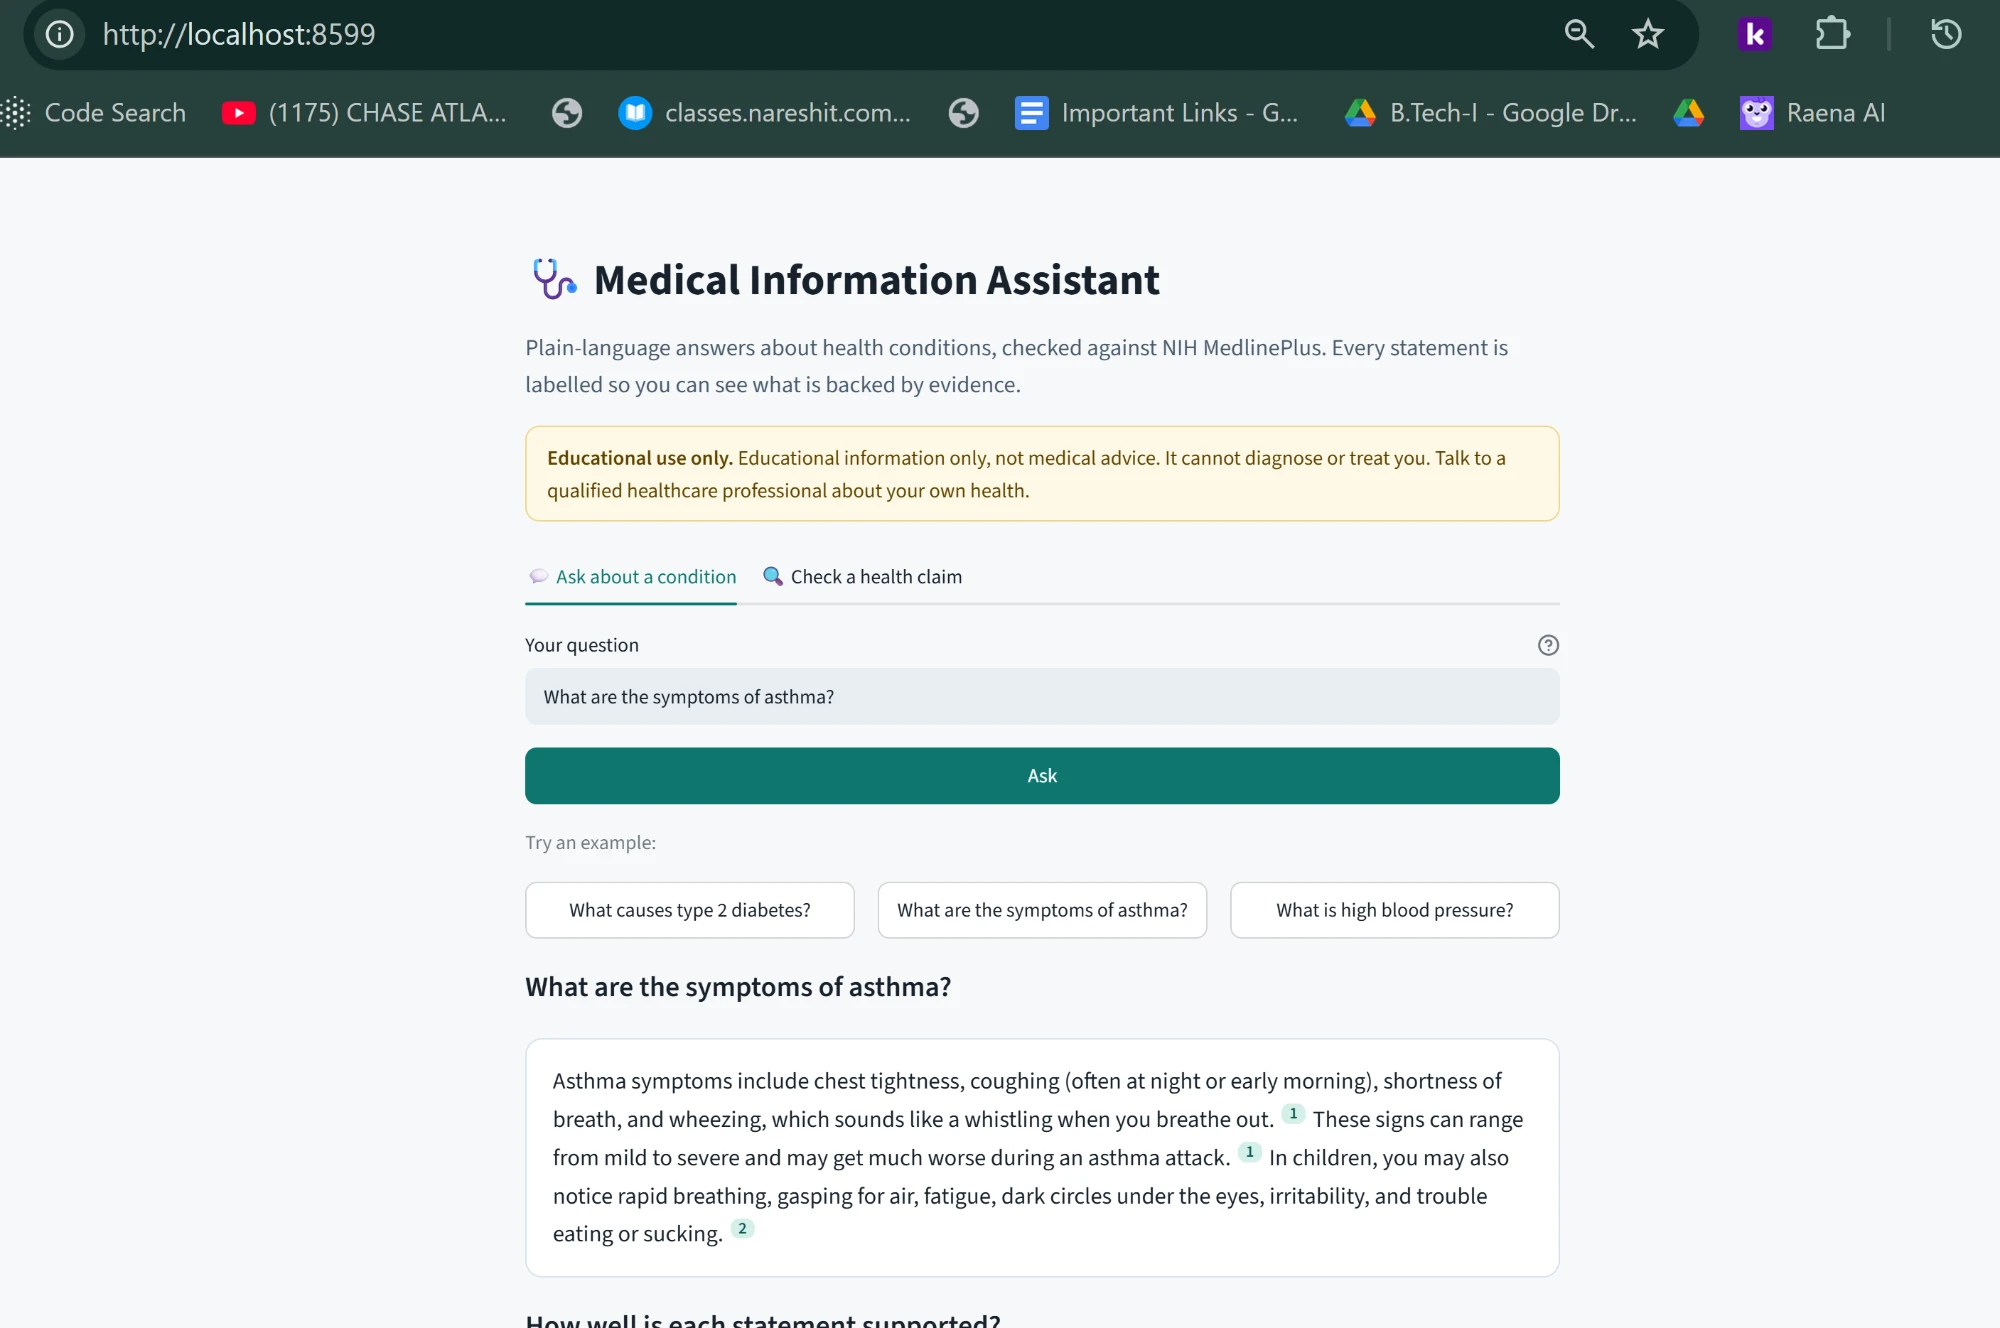
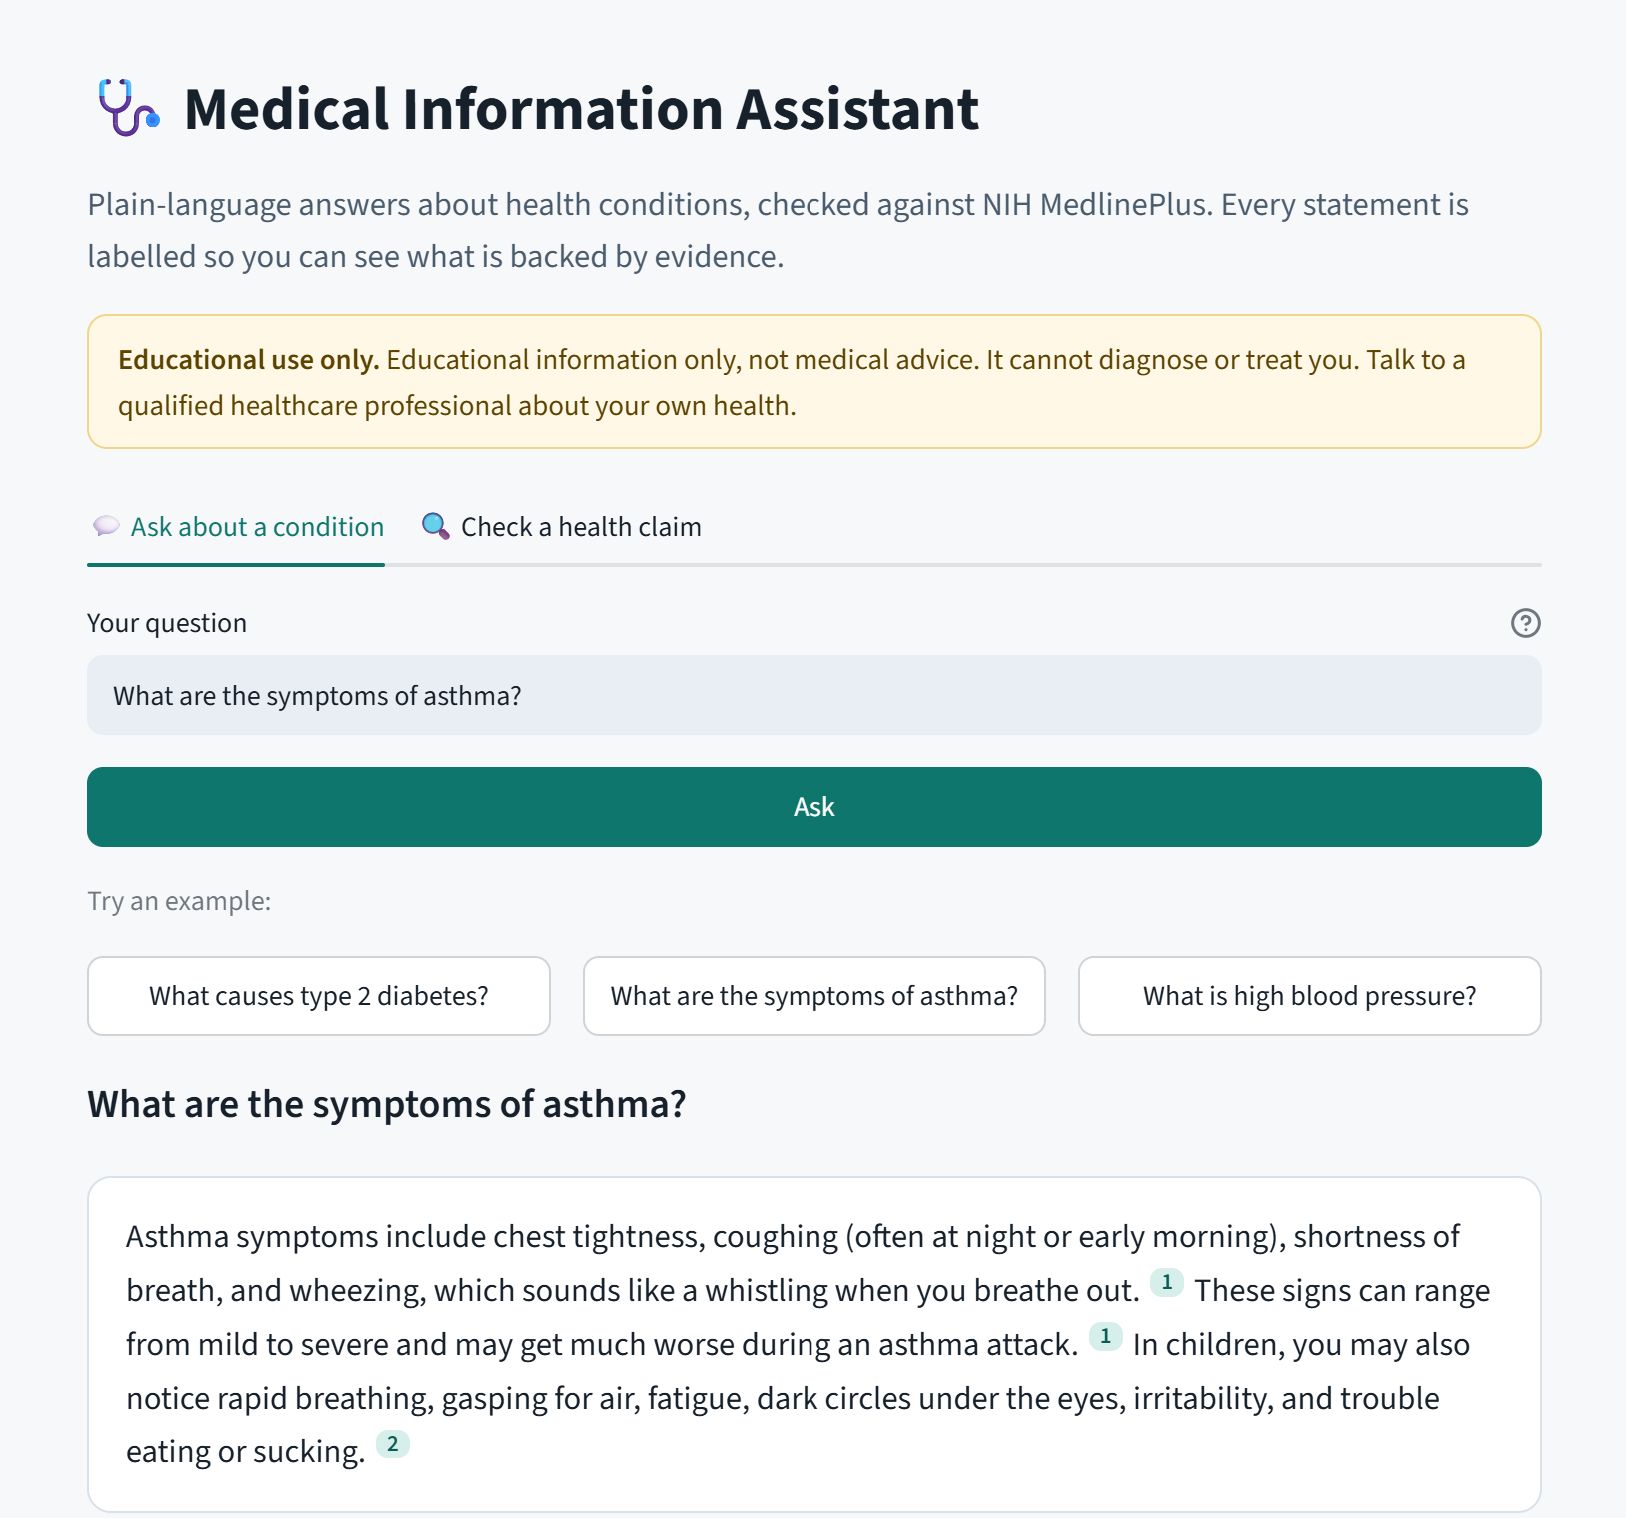
Render flowcharts as images, update screenshot

diff --git a/docs/flowchart.md b/docs/flowchart.md
@@ -1,65 +1,18 @@
 # System flowchart
 
-Rendered automatically by GitHub (Mermaid).
+PNG versions are shown below; SVG copies (zoomable) are in `docs/diagrams/`.
 
 ## 1. Offline: building the knowledge base (`python -m medassist.ingest`)
 
-```mermaid
-flowchart LR
-    A[MedlinePlus health topics XML<br/>NIH, public domain] --> B[Parse topics<br/>keep English, strip HTML,<br/>drop very short entries]
-    B --> C[Chunk text<br/>sentence-aware, ~110 words]
-    C --> D[Embed chunks<br/>bge-small-en-v1.5]
-    D --> E[(data/index<br/>chunks.json + embeddings.npy)]
-```
+![Offline indexing pipeline](diagrams/pipeline-offline.png)
 
 ## 2. Online: answering a question (tab "Ask about a condition")
 
-```mermaid
-flowchart TD
-    U([User question]) --> S{Safety gate<br/>safety.check}
-    S -- emergency words --> E1[/Emergency message<br/>call local emergency number/]
-    S -- personal diagnosis<br/>or dosage request --> E2[/Polite refusal<br/>ask a clinician/]
-    S -- allowed --> R
-
-    subgraph RET [Hybrid retrieval]
-        R[Embed query] --> R1[Dense search<br/>cosine similarity, top 50]
-        R --> R2[BM25 keyword search, top 50]
-        R1 --> RRF[Reciprocal rank fusion]
-        R2 --> RRF
-        RRF --> TOP[Top 4 chunks]
-    end
-
-    TOP --> P[Build prompt<br/>numbered context passages<br/>+ strict system rules]
-    P --> L[LLM<br/>Groq gpt-oss-20b or local Ollama]
-    L --> CC[Remove citations that point to<br/>non-existent passages]
-    CC --> I{Answer says<br/>INSUFFICIENT EVIDENCE?}
-    I -- yes --> NE[/Show: not enough evidence/]
-    I -- no --> SP[Split answer into claims<br/>one per sentence]
-
-    subgraph VER [Claim verification, per claim]
-        SP --> V1[Retrieve top 4 chunks<br/>for the claim]
-        V1 --> V2[NLI model<br/>deberta-v3-small<br/>claim vs each chunk]
-        V2 --> V3{Best score}
-        V3 -- entailment >= 0.5 --> LS[Supported]
-        V3 -- contradiction >= 0.5 --> LC[Contradicted]
-        V3 -- otherwise --> LU[Unsupported]
-    end
-
-    LS --> OUT
-    LC --> OUT
-    LU --> OUT
-    OUT[/Streamlit UI<br/>answer with citation badges,<br/>claim cards + evidence,<br/>source list, disclaimer/]
-```
+![Question answering pipeline](diagrams/pipeline-online.png)
 
 ## 3. Online: checking a claim (tab "Check a health claim")
 
-```mermaid
-flowchart LR
-    C([Pasted claim]) --> SP[Split into sentences<br/>min 4 words]
-    SP --> RT[Retrieve evidence<br/>hybrid search]
-    RT --> N[NLI entailment check]
-    N --> L[Supported / Contradicted / Unsupported<br/>+ evidence snippet and source link]
-```
+![Claim check pipeline](diagrams/pipeline-claim-check.png)
 
 ## Module map
 

diff --git a/README.md b/README.md
@@ -11,16 +11,7 @@ claim as **Supported / Contradicted / Unsupported** using an NLI model. 100% fre
 
 ## How it works
 
-```mermaid
-flowchart TD
-    U([User question]) --> S{Safety gate}
-    S -- emergency or personal advice --> X[/Refuse and redirect/]
-    S -- allowed --> R[Hybrid retrieval<br/>dense + BM25 + RRF]
-    R --> L[LLM answer with numbered citations]
-    L --> SP[Split into claims]
-    SP --> N[Retrieve evidence + NLI check]
-    N --> O[/Supported / Contradicted / Unsupported<br/>with evidence and sources/]
-```
+![Pipeline flowchart](docs/diagrams/pipeline-online.png)
 
 Full detail, including the offline indexing pipeline: [docs/flowchart.md](docs/flowchart.md).
 
